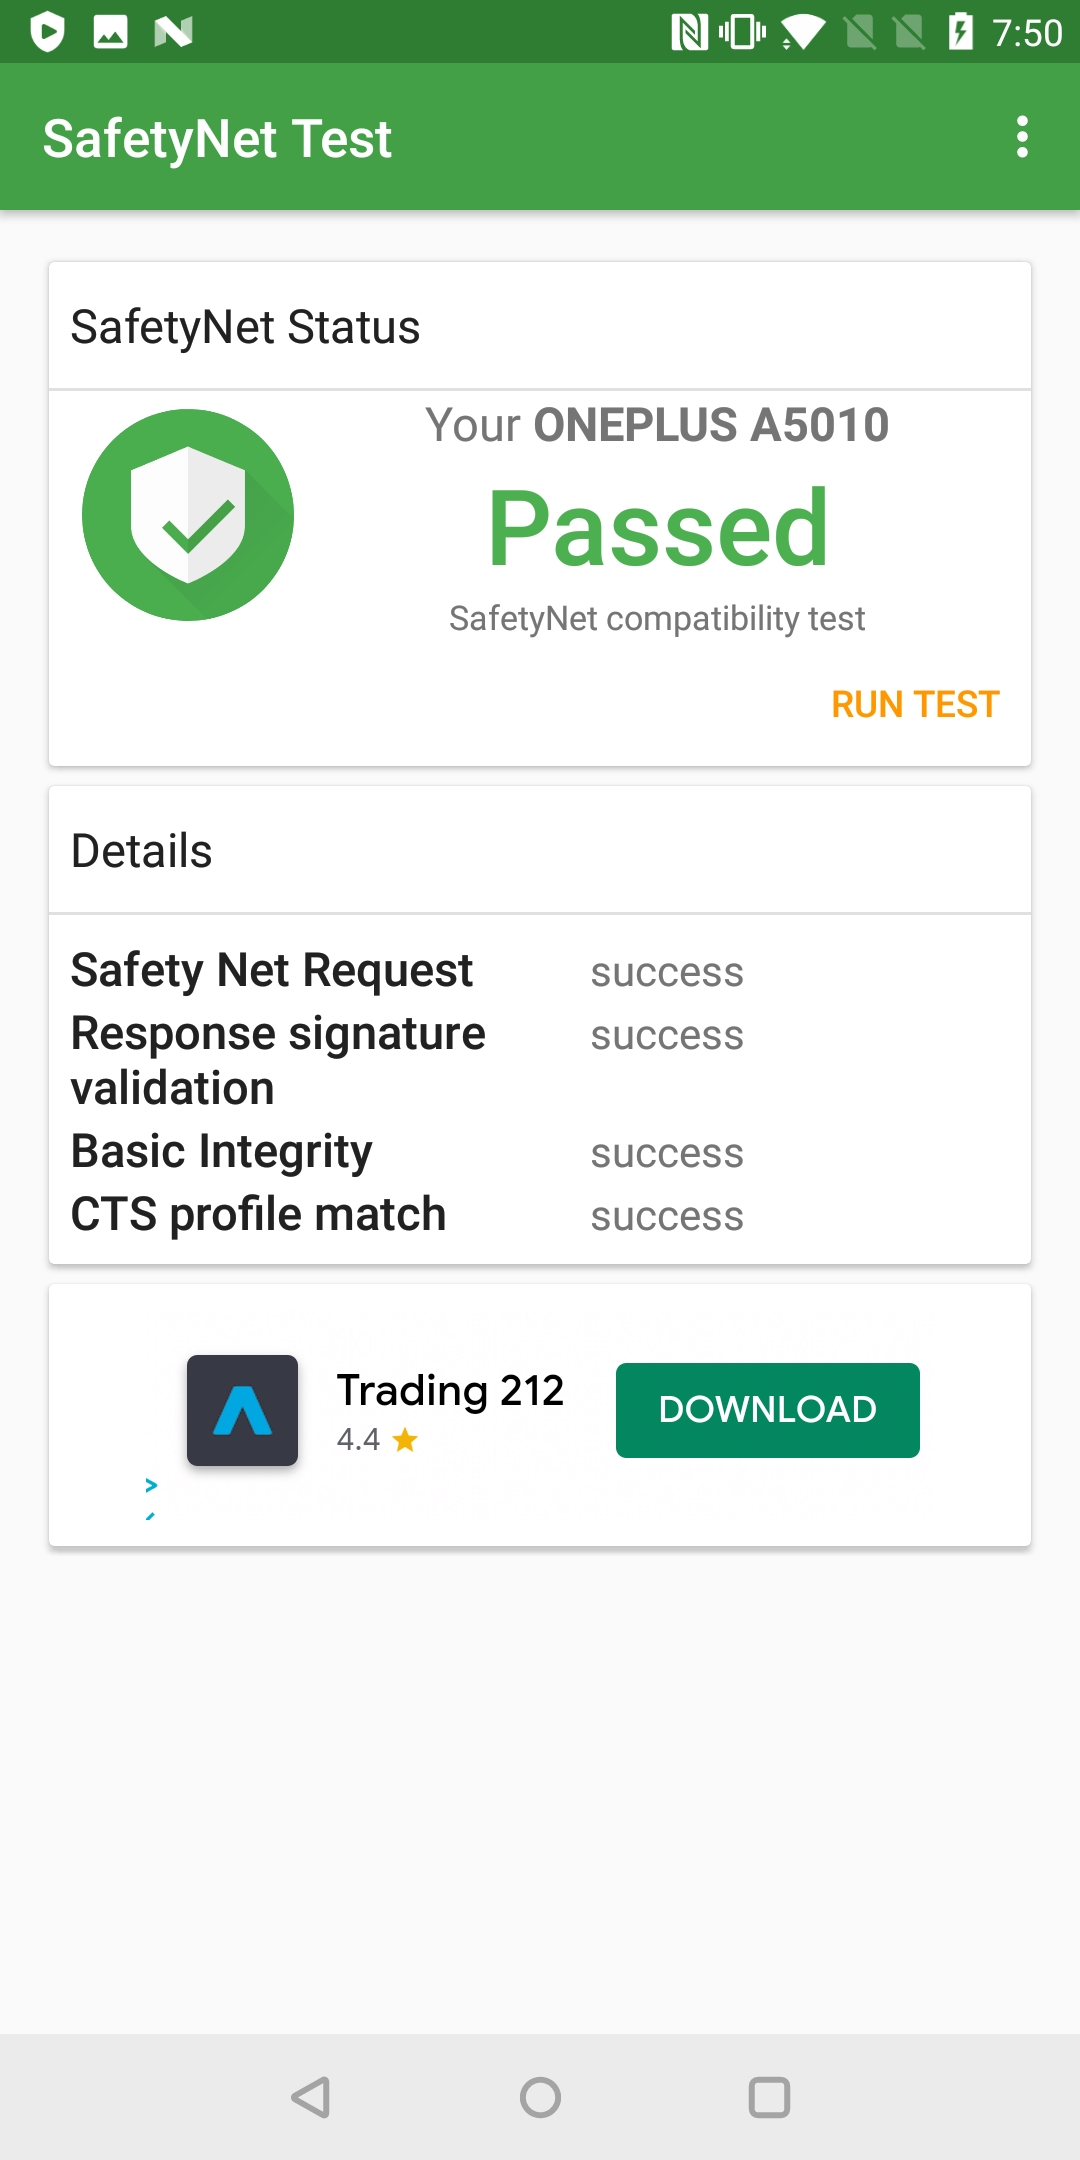
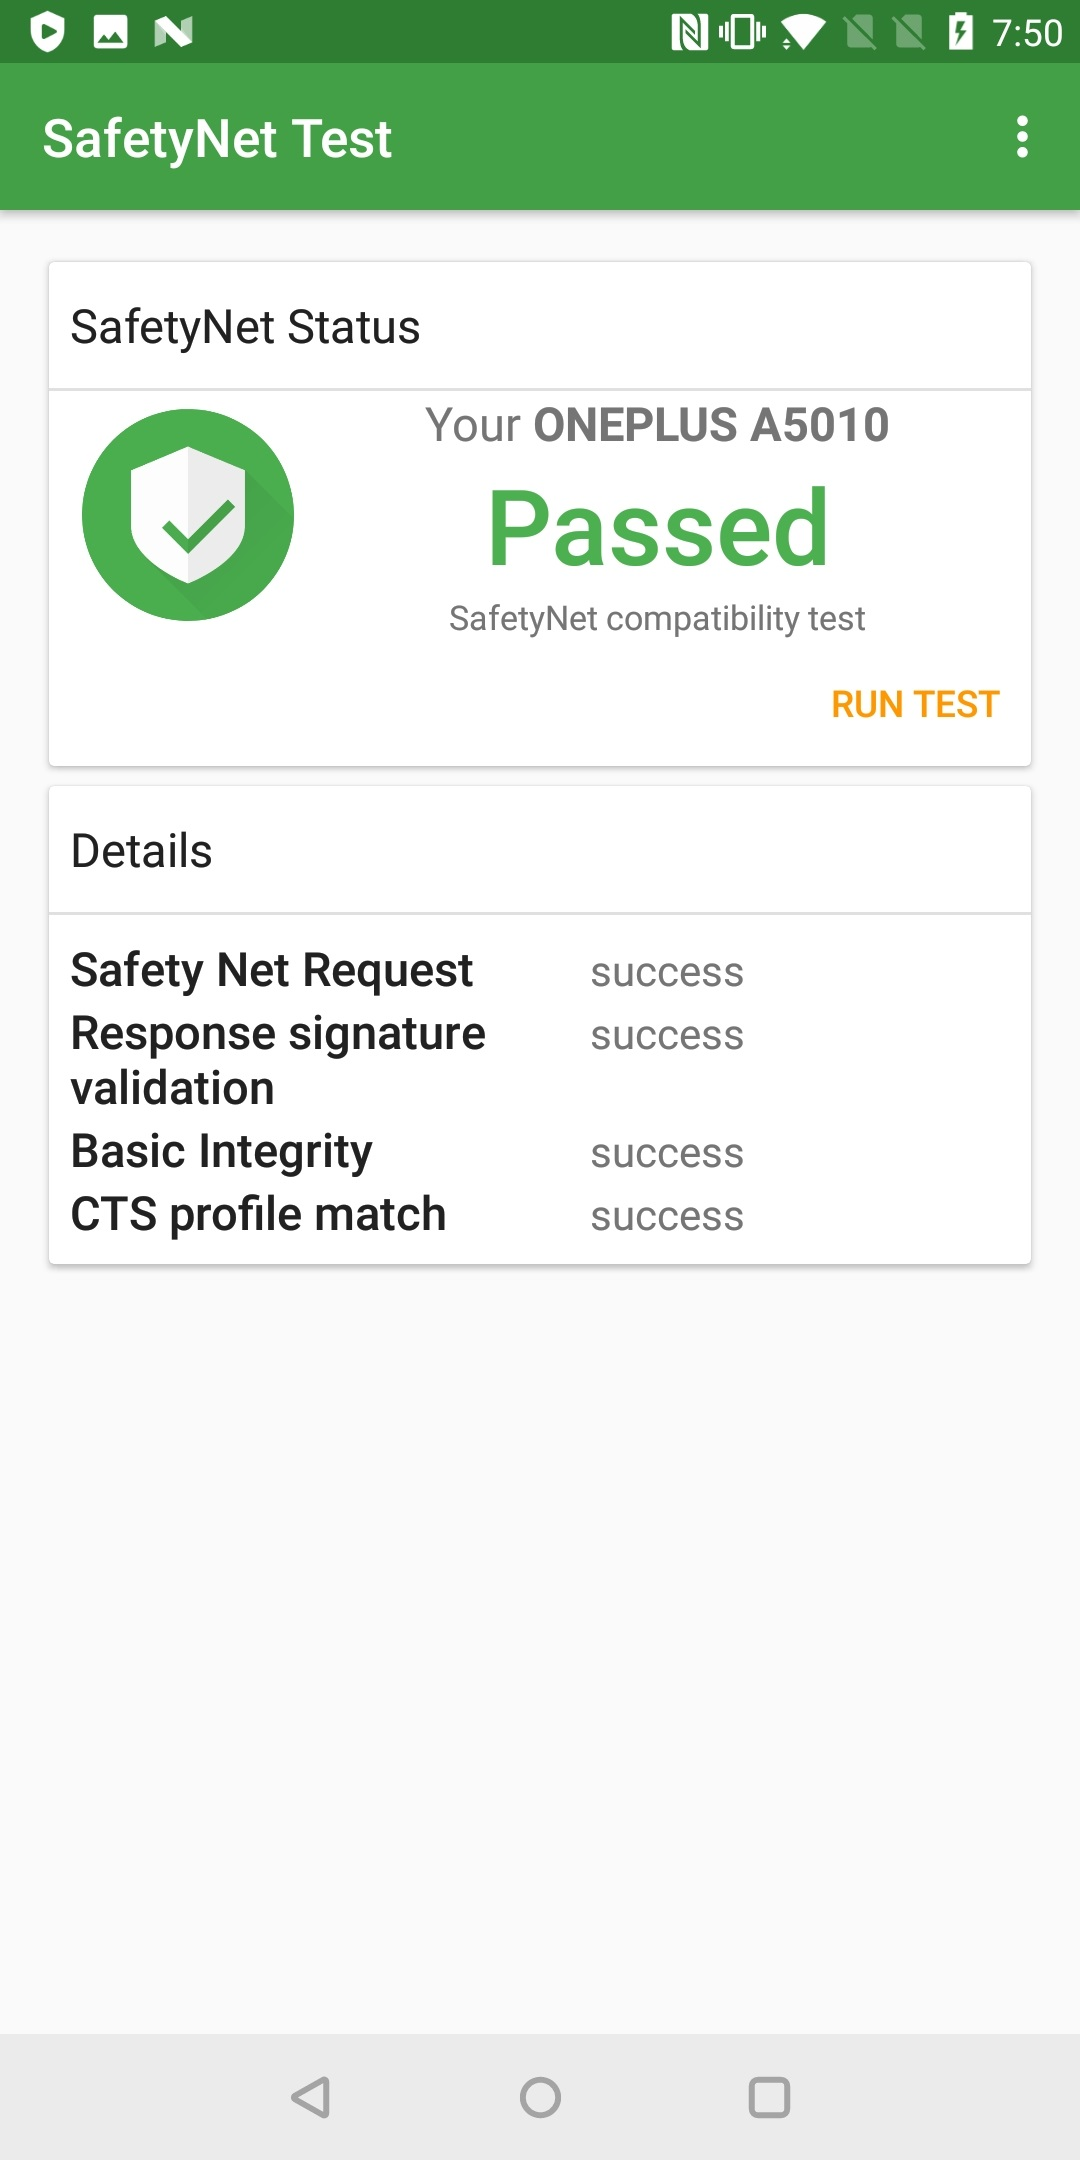
Stealthy root post: removed test css, updated image to not have ad, and started writing intro / background for post

diff --git a/src/routes/posts/2020-08-09-custom_stealthy_android_root/document.module.css b/src/routes/posts/2020-08-09-custom_stealthy_android_root/document.module.css
@@ -16,10 +16,6 @@
   /* text-justify: inter-word; */
 }
 
-.content h3{
-  margin-top: 0;
-}
-
 ul {
   margin-bottom: 0;
 }
